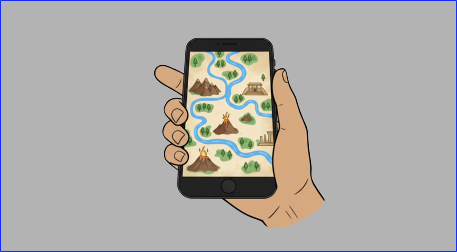
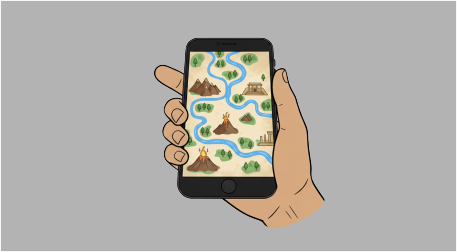
tweaks

Changed region(s): [[0.0, 0.0, 1.0, 1.0]]

diff --git a/src/pages/landing-page.css b/src/pages/landing-page.css
@@ -37,7 +37,8 @@
 .button:active {
   background: #daa400ff;
 }
-.button[disabled], .button[aria-disabled="true"]  {
+.button[disabled],
+.button[aria-disabled="true"] {
   background: #949494ff !important;
   color: #404040ff !important;
 }
@@ -106,8 +107,16 @@
   width: calc(100% + 2ex);
   margin: 0 -1ex 0 -1ex;
   border-radius: 1.2ex 1.2ex 1.2ex 1.2ex;
-  border: 1px solid #949494ff;
+  border: 2px solid #747474ff;
   background: #bdbdbdff;
+  overflow: hidden;
+}
+.illustration img {
+  width: calc(100% + 2px);
+  background: #bdbdbdff;
+  padding: 0;
+  margin: -2px;
+  margin-bottom: -1ex;
 }
 
 .phone-guy {

diff --git a/src/pages/landing-page.tsx b/src/pages/landing-page.tsx
@@ -212,5 +212,5 @@ const EndOfPage: Component = () => {
 }
 const PhoneIllustration: Component = () => {
 
-	return <img class="illustration" src={phoneImage} />
+	return <div class="illustration" ><img src={phoneImage} /></div>
 }
